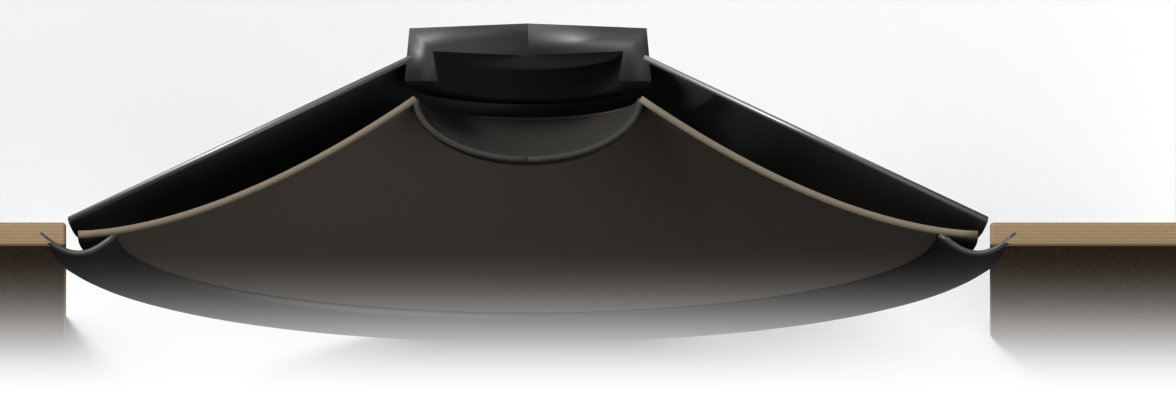
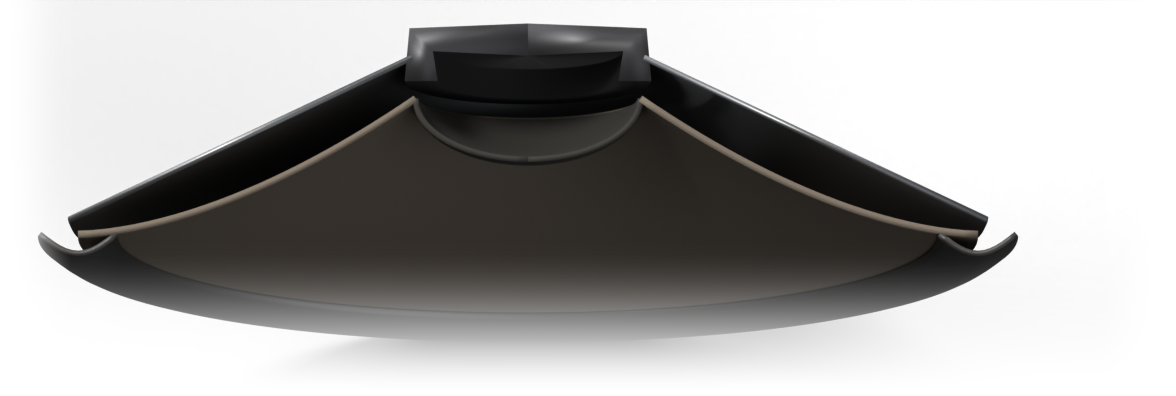
Mic diagram: drop the plywood end blocks, soften the picture's edges

Changed region(s): [[0.8265, 0.5455, 1.0, 0.9394], [0.0, 0.5455, 0.0918, 0.9394]]

diff --git a/tools/gear3d/diagram.py b/tools/gear3d/diagram.py
@@ -81,12 +81,6 @@ def plywood():
 def diagram(out, samples, scale):
     area = (0.0, -4.0, 392.0, 132.0)
     st = c.Stage(area, ZC, scale=scale, samples=samples, floor=True)
-    ply = plywood()
-    for side in (-1, 1):
-        x0 = CX + side * (CONE_R + 4.0)
-        xa, xb = (x0, 392.0 + 20) if side > 0 else (-20.0, x0)
-        p, q = st.at(xa, BAFFLE - BOARD / 2, ZC), st.at(xb, BAFFLE + BOARD / 2, ZC)
-        b = c.box("board", p.x, q.x, q.y, p.y, 0.0, ZC, ply, edge=0.03, edge_segments=2)
     steel = c.principled("basket", (0.2, 0.21, 0.22), metallic=0.9, rough=0.42)
     paper = c.principled("paper", (0.13, 0.105, 0.08), rough=0.9)
     pn = c.Nodes(paper)
